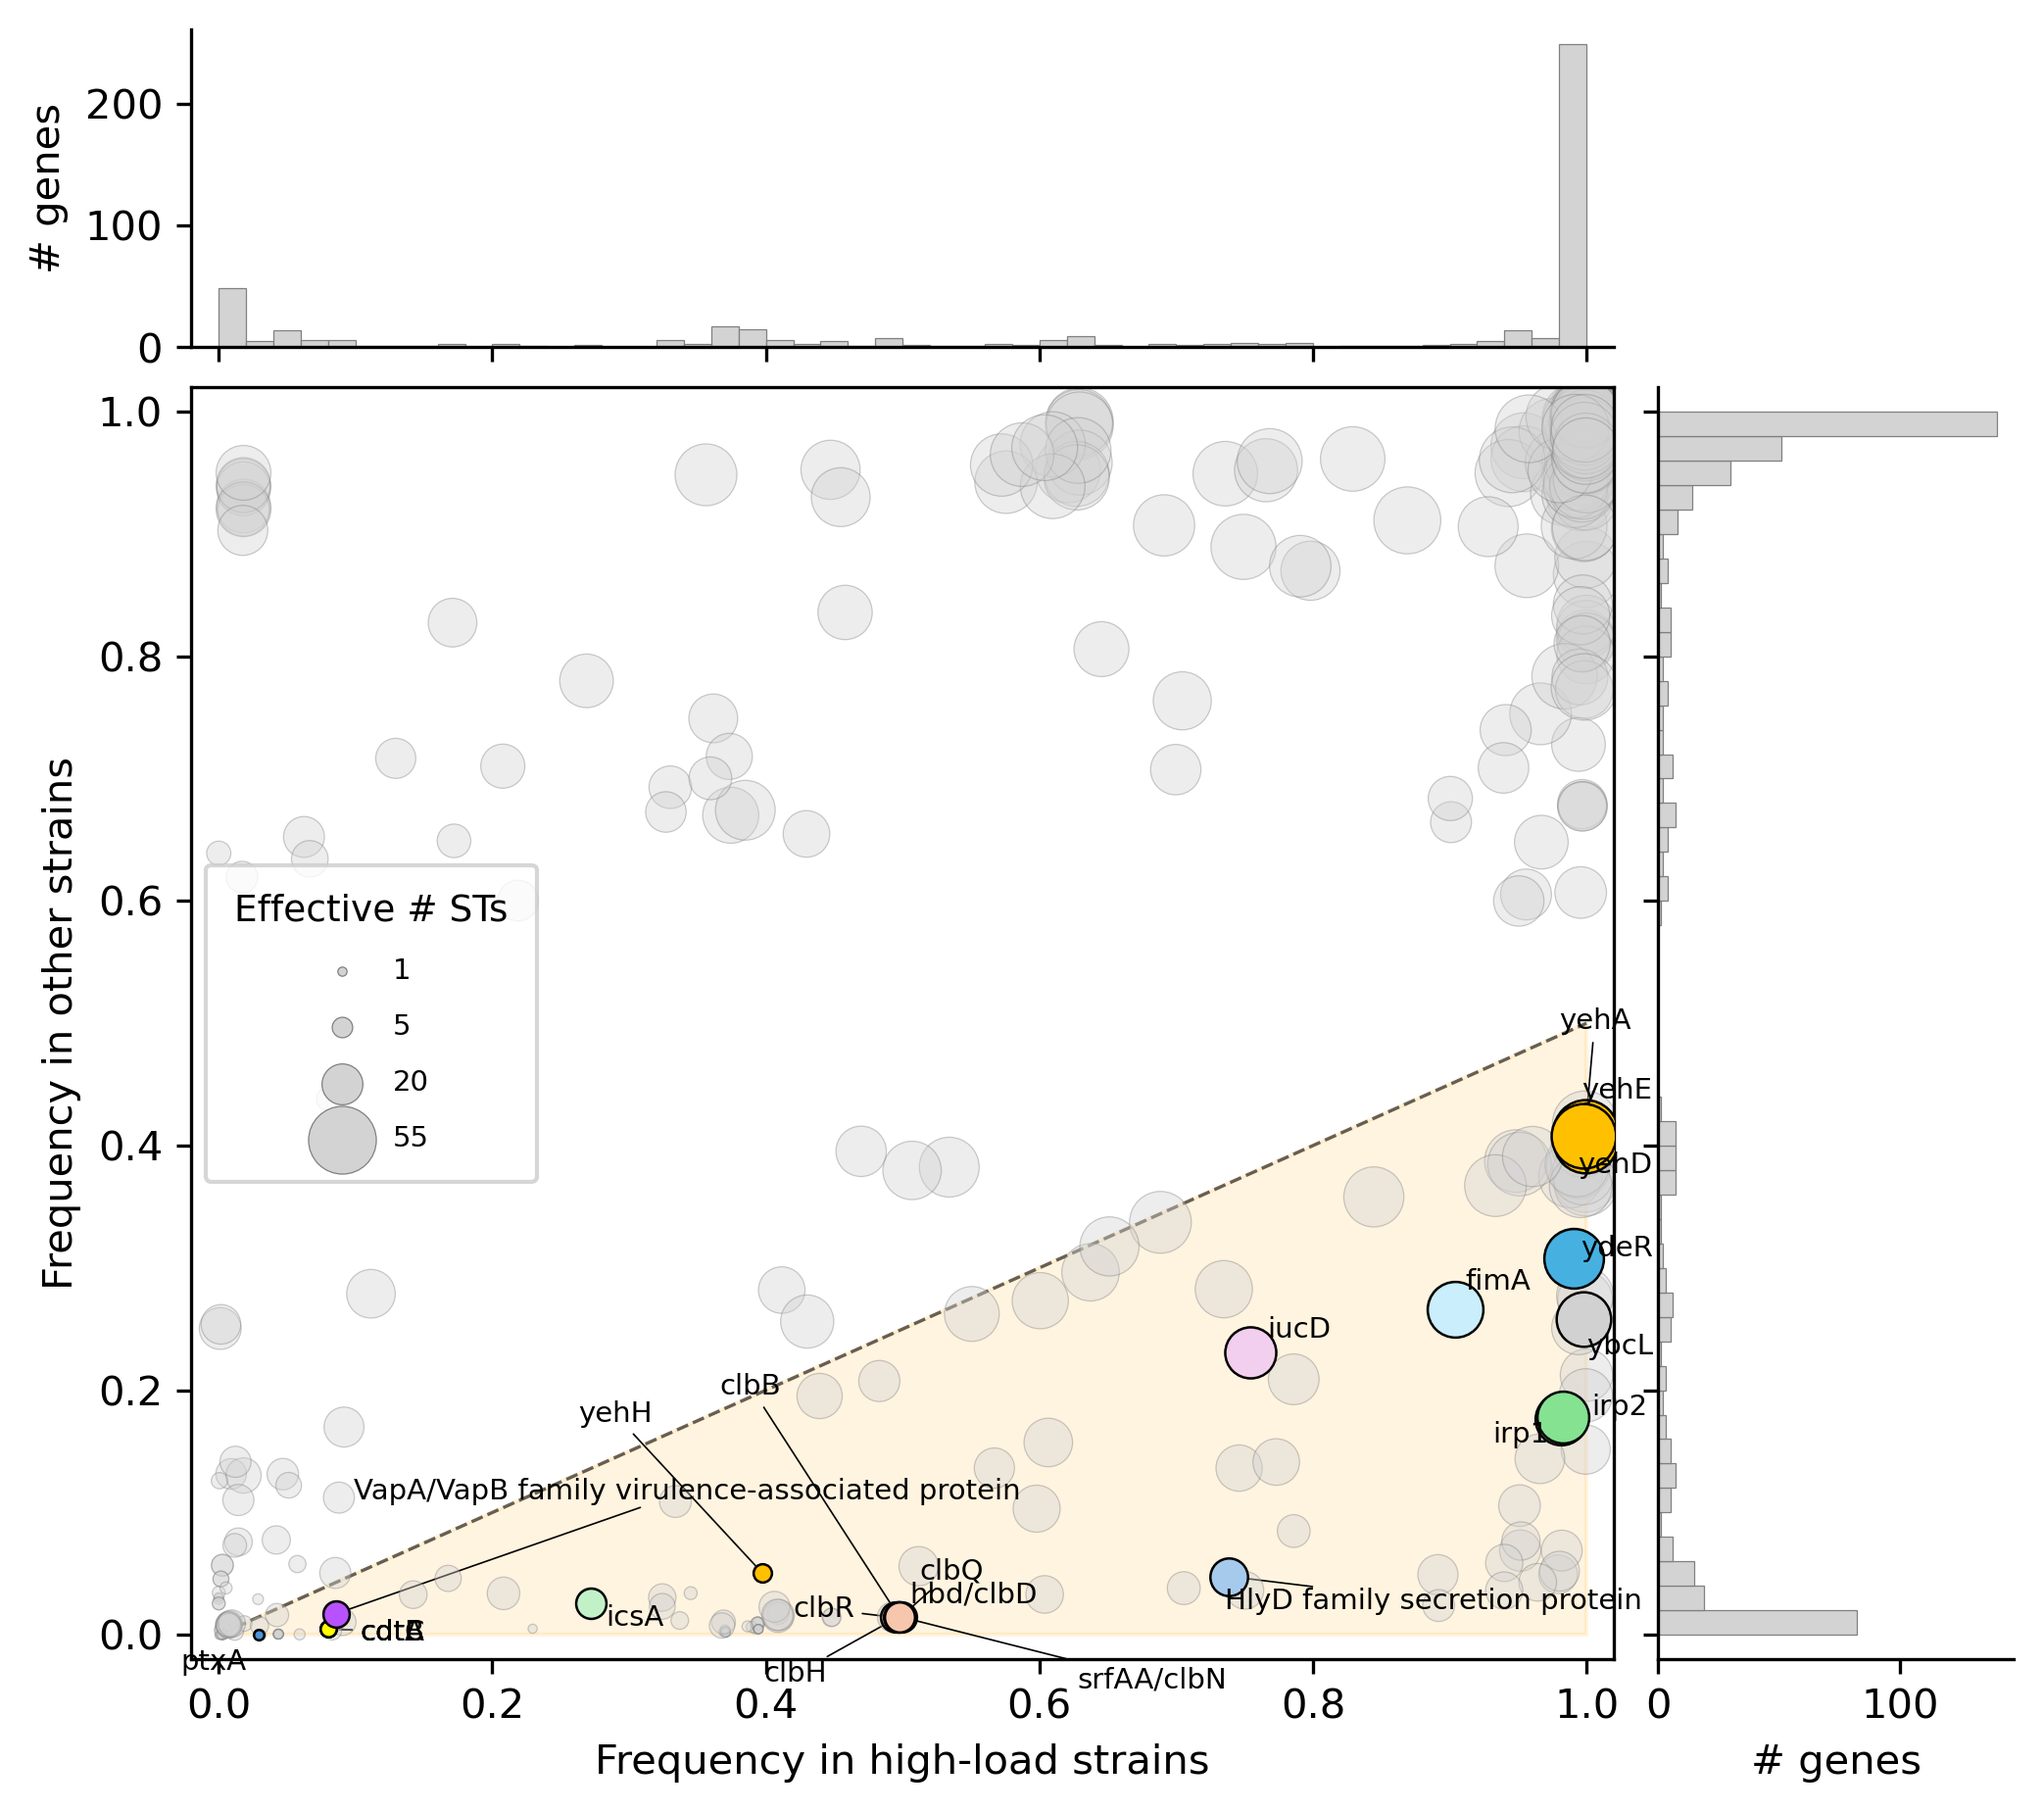
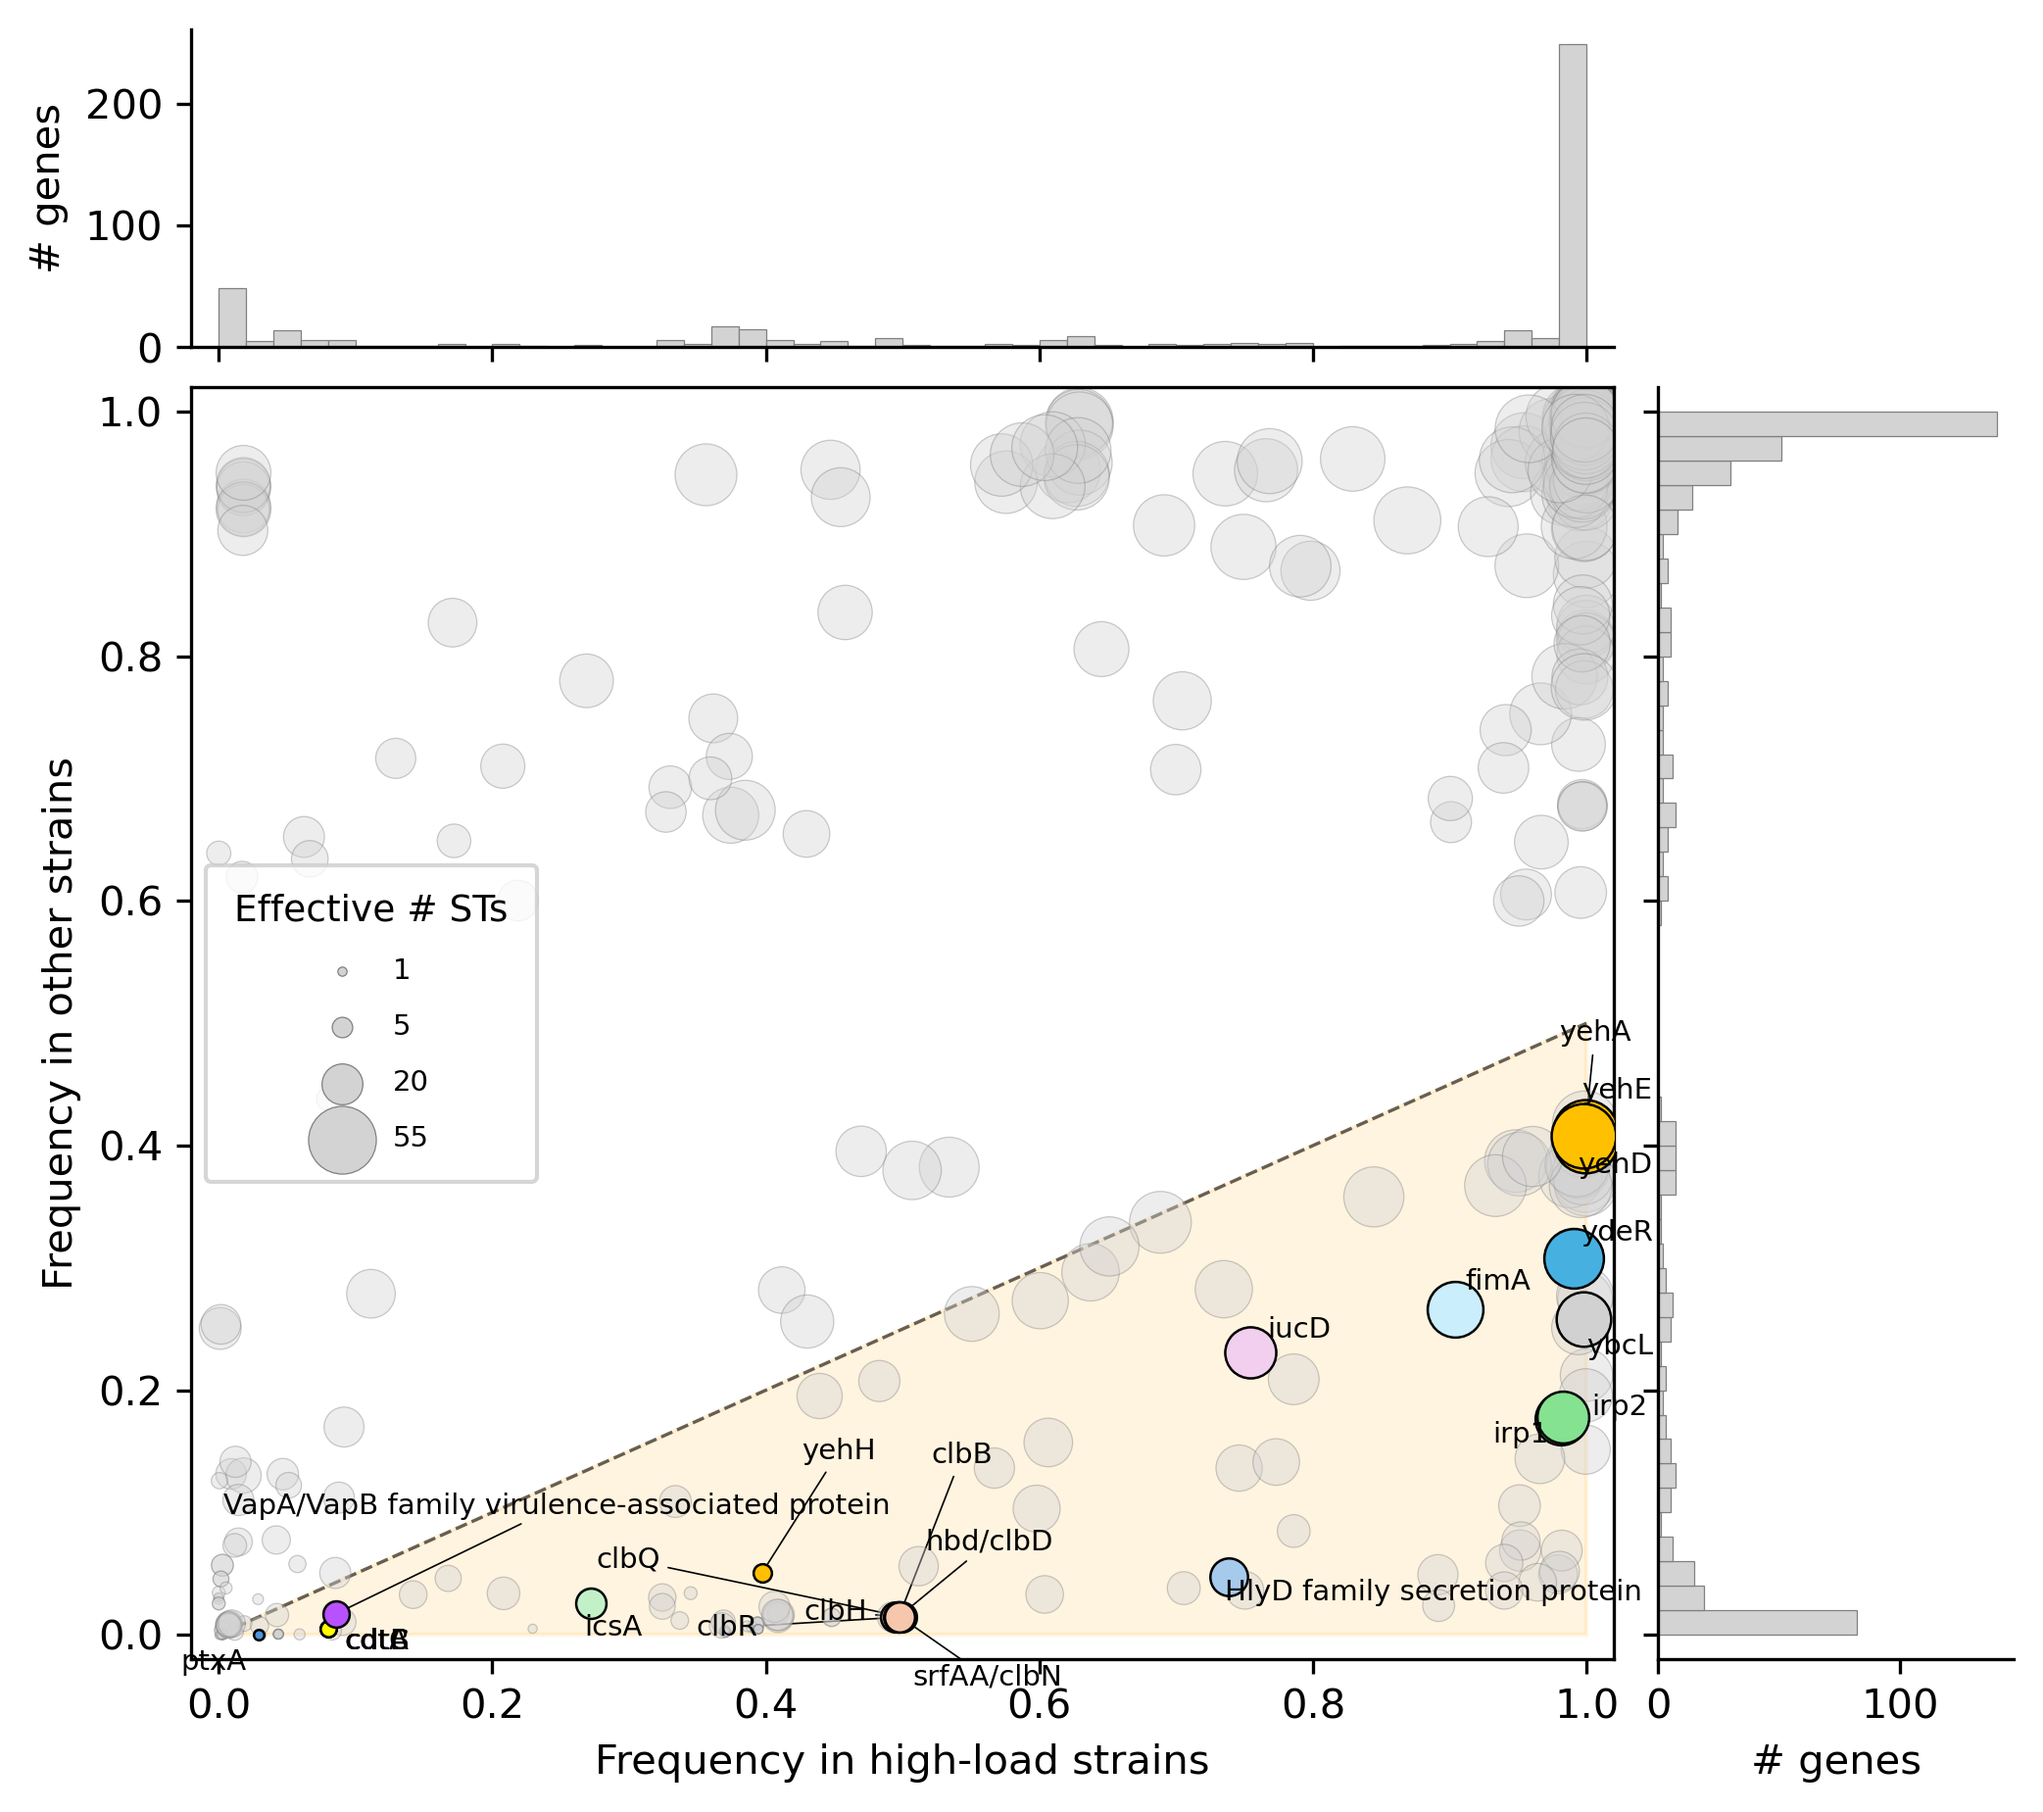
style: minor cleanup

diff --git a/scripts/plots/plot_st_boxplots.py b/scripts/plots/plot_st_boxplots.py
@@ -33,7 +33,6 @@ DEFAULT_PG_COLOR = "lightgray"
 def parse_args():
     p = argparse.ArgumentParser(description=__doc__)
     p.add_argument("--pa", required=True, help="Focal-gene presence/absence CSV")
-    p.add_argument("--gene-info", required=True, help="Focal gene_info CSV")
     p.add_argument("--metadata", required=True, help="Horesh F1 genome metadata CSV")
     p.add_argument("--out-boxplot", required=True, nargs="+", help="Output path(s) for the boxplot+counts figure (format inferred from extension; pass one per format)")
     p.add_argument("--high-load-threshold", type=int, required=True, help="Gene-count threshold marking 'high-load' isolates")
@@ -99,10 +98,6 @@ def main():
 
     pa = pd.read_csv(args.pa, index_col=0)
     pa.index = pa.index.astype(int)
-
-    # gene_info is loaded for parity with the original pipeline; even without the
-    # non-softcore subset we keep it available so the input contract matches.
-    _ = pd.read_csv(args.gene_info)
 
     meta = pd.read_csv(args.metadata)
     meta = meta.dropna(subset=["name_in_presence_absence"])

diff --git a/scripts/plots/plot_st_phylo_distance.py b/scripts/plots/plot_st_phylo_distance.py
@@ -33,7 +33,8 @@ PG_PALETTE = {
 }
 DEFAULT_PG_COLOR = "lightgray"
 
-MIN_ISOLATES = 10  # minimum isolates per ST to include in distance matrix
+MIN_ISOLATES = 10           # minimum isolates per ST to include in distance matrix
+MIN_ISOLATES_BARPLOT = 3    # minimum isolates per ST to show on the counts barplot
 
 
 def parse_args():
@@ -109,7 +110,7 @@ def main():
     counts.to_csv(args.out_counts_csv)
 
     # Barplot: isolates per ST
-    plot_df = counts[counts["n_total"] >= 3].copy()
+    plot_df = counts[counts["n_total"] >= MIN_ISOLATES_BARPLOT].copy()
     fig, ax = plt.subplots(figsize=(max(8, 0.13 * len(plot_df)), 5))
     x = np.arange(len(plot_df))
     ax.bar(x, plot_df["n_total"], color="lightgray", label="total in dataset")

diff --git a/scripts/plots/plot_gene_enrichment_scatter.py b/scripts/plots/plot_gene_enrichment_scatter.py
@@ -196,7 +196,7 @@ def main():
     ax.set_xlim(-0.02, 1.02)
     ax.set_ylim(-0.02, 1.02)
 
-    size_examples = [1, 5, 20, int(len(valid_sts))]
+    size_examples = [1, 5, 20, len(valid_sts)]
     size_handles = [
         plt.scatter(
             [],
